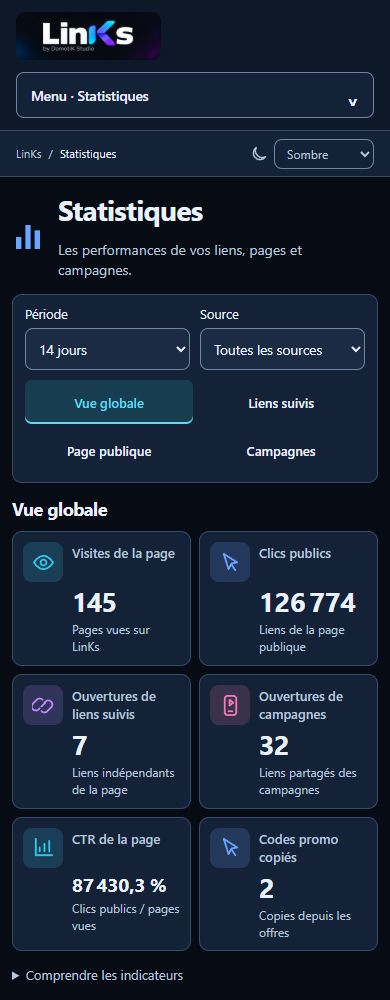
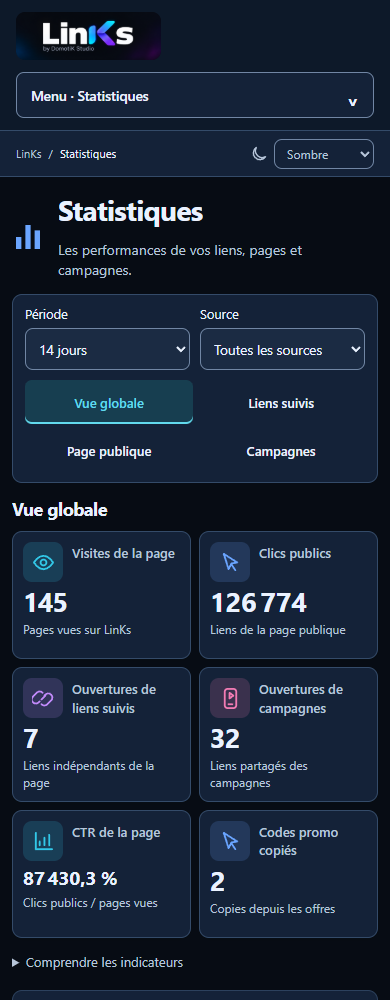
fix: keep mobile statistics figures readable with fallback fonts

Changed region(s): [[0.0308, 0.589, 0.9846, 1.0]]

diff --git a/admin/style.css b/admin/style.css
@@ -3030,7 +3030,7 @@ body:has(#statistics.active) main { padding: 20px 24px 32px; }
   #statistics .statistics-kpis .kpi-label { min-height: 42px; gap: 9px; }
   #statistics .statistics-kpis .kpi-label [data-icon] { width: 40px; height: 40px; }
   #statistics .statistics-kpis .kpi-label svg { width: 23px; height: 23px; }
-  #statistics .statistics-kpis article > strong { margin-left: 49px; font-size: 27px; }
+  #statistics .statistics-kpis article > strong { margin-left: 0; font-size: 27px; }
   #statistics .statistics-kpis article > strong.is-long-number { font-size: 19px; }
-  #statistics .statistics-kpis article > small { margin-left: 49px; }
+  #statistics .statistics-kpis article > small { margin-left: 0; }
 }
